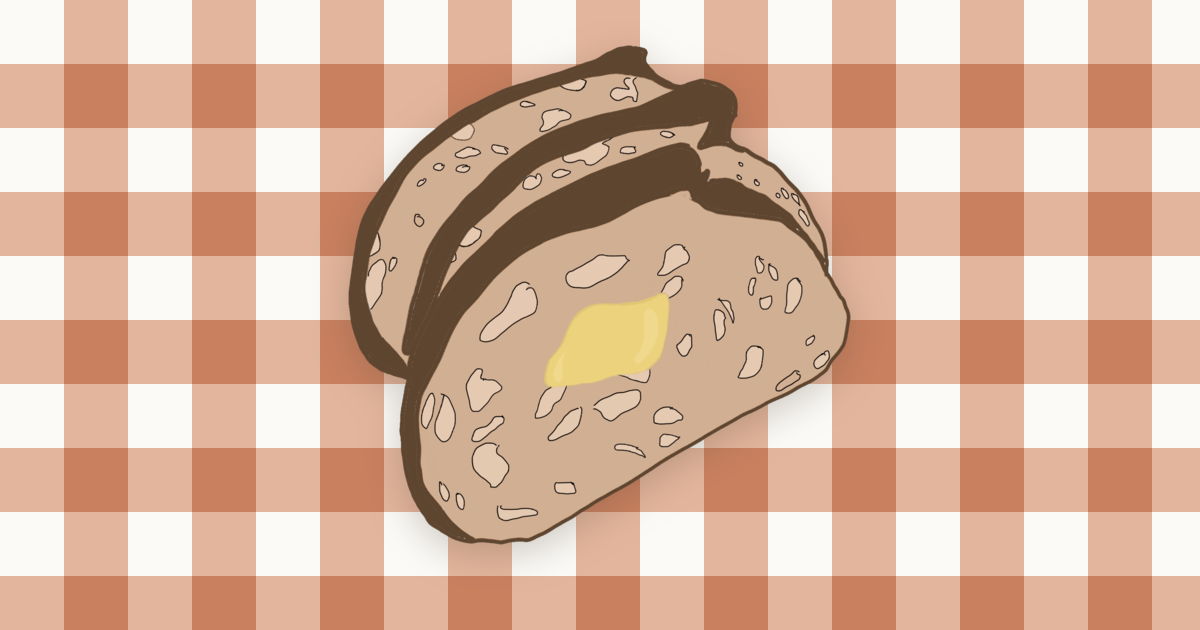
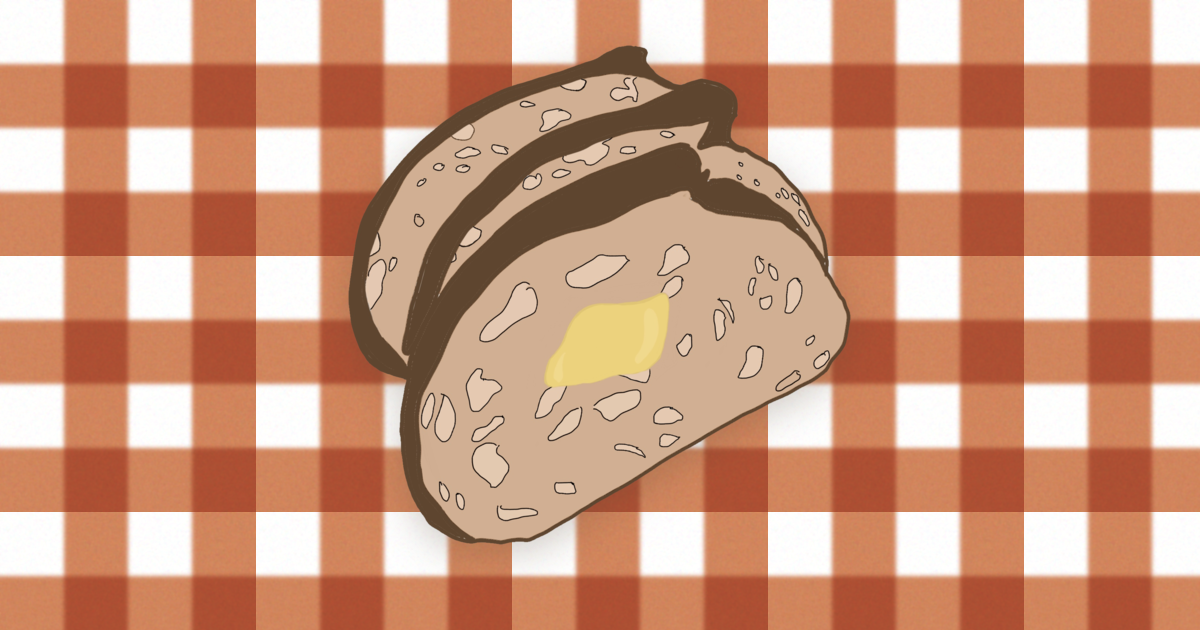
Soften link-preview gingham to match reference

diff --git a/index.html b/index.html
@@ -14,7 +14,7 @@
   <meta property="og:title" content="Sometime Sourdough | Knead It Yourself">
   <meta property="og:description" content="A family-run home micro-bakery. Knead the dough and join the loaf list.">
   <meta property="og:url" content="https://sometimesourdough.com/">
-  <meta property="og:image" content="https://sometimesourdough.com/assets/og-image.png?v=2">
+  <meta property="og:image" content="https://sometimesourdough.com/assets/og-image.png?v=3">
   <meta property="og:image:width" content="1200">
   <meta property="og:image:height" content="630">
   <meta name="twitter:card" content="summary_large_image">
